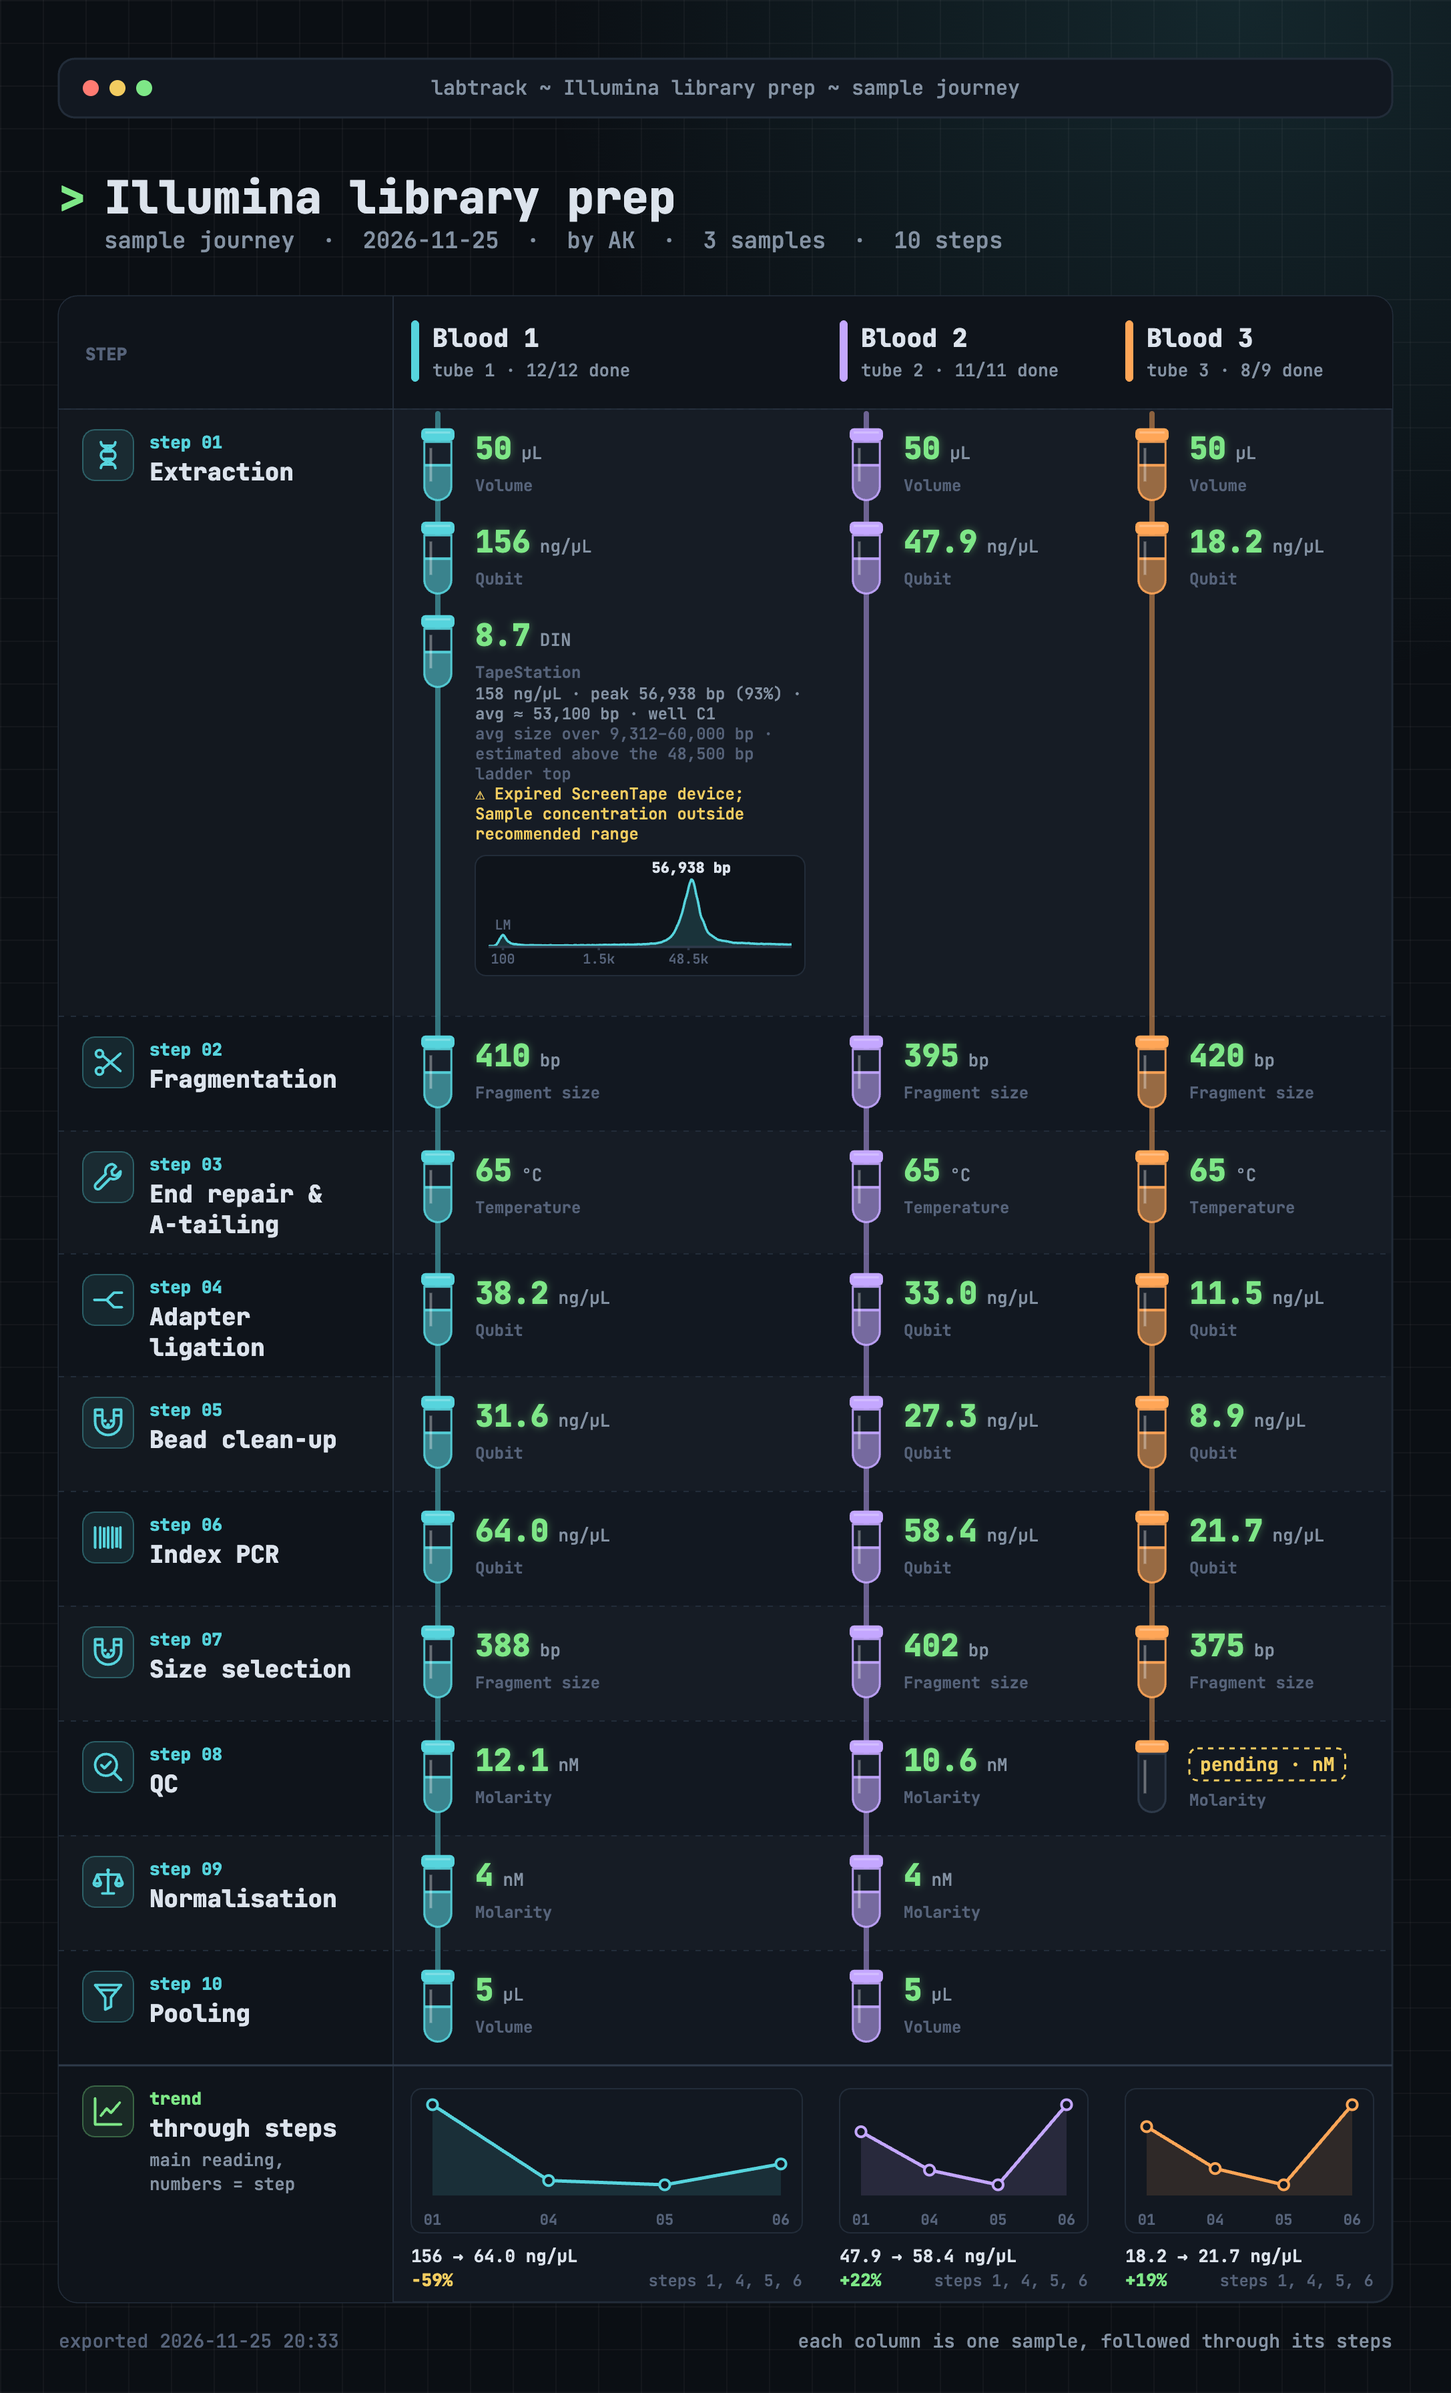
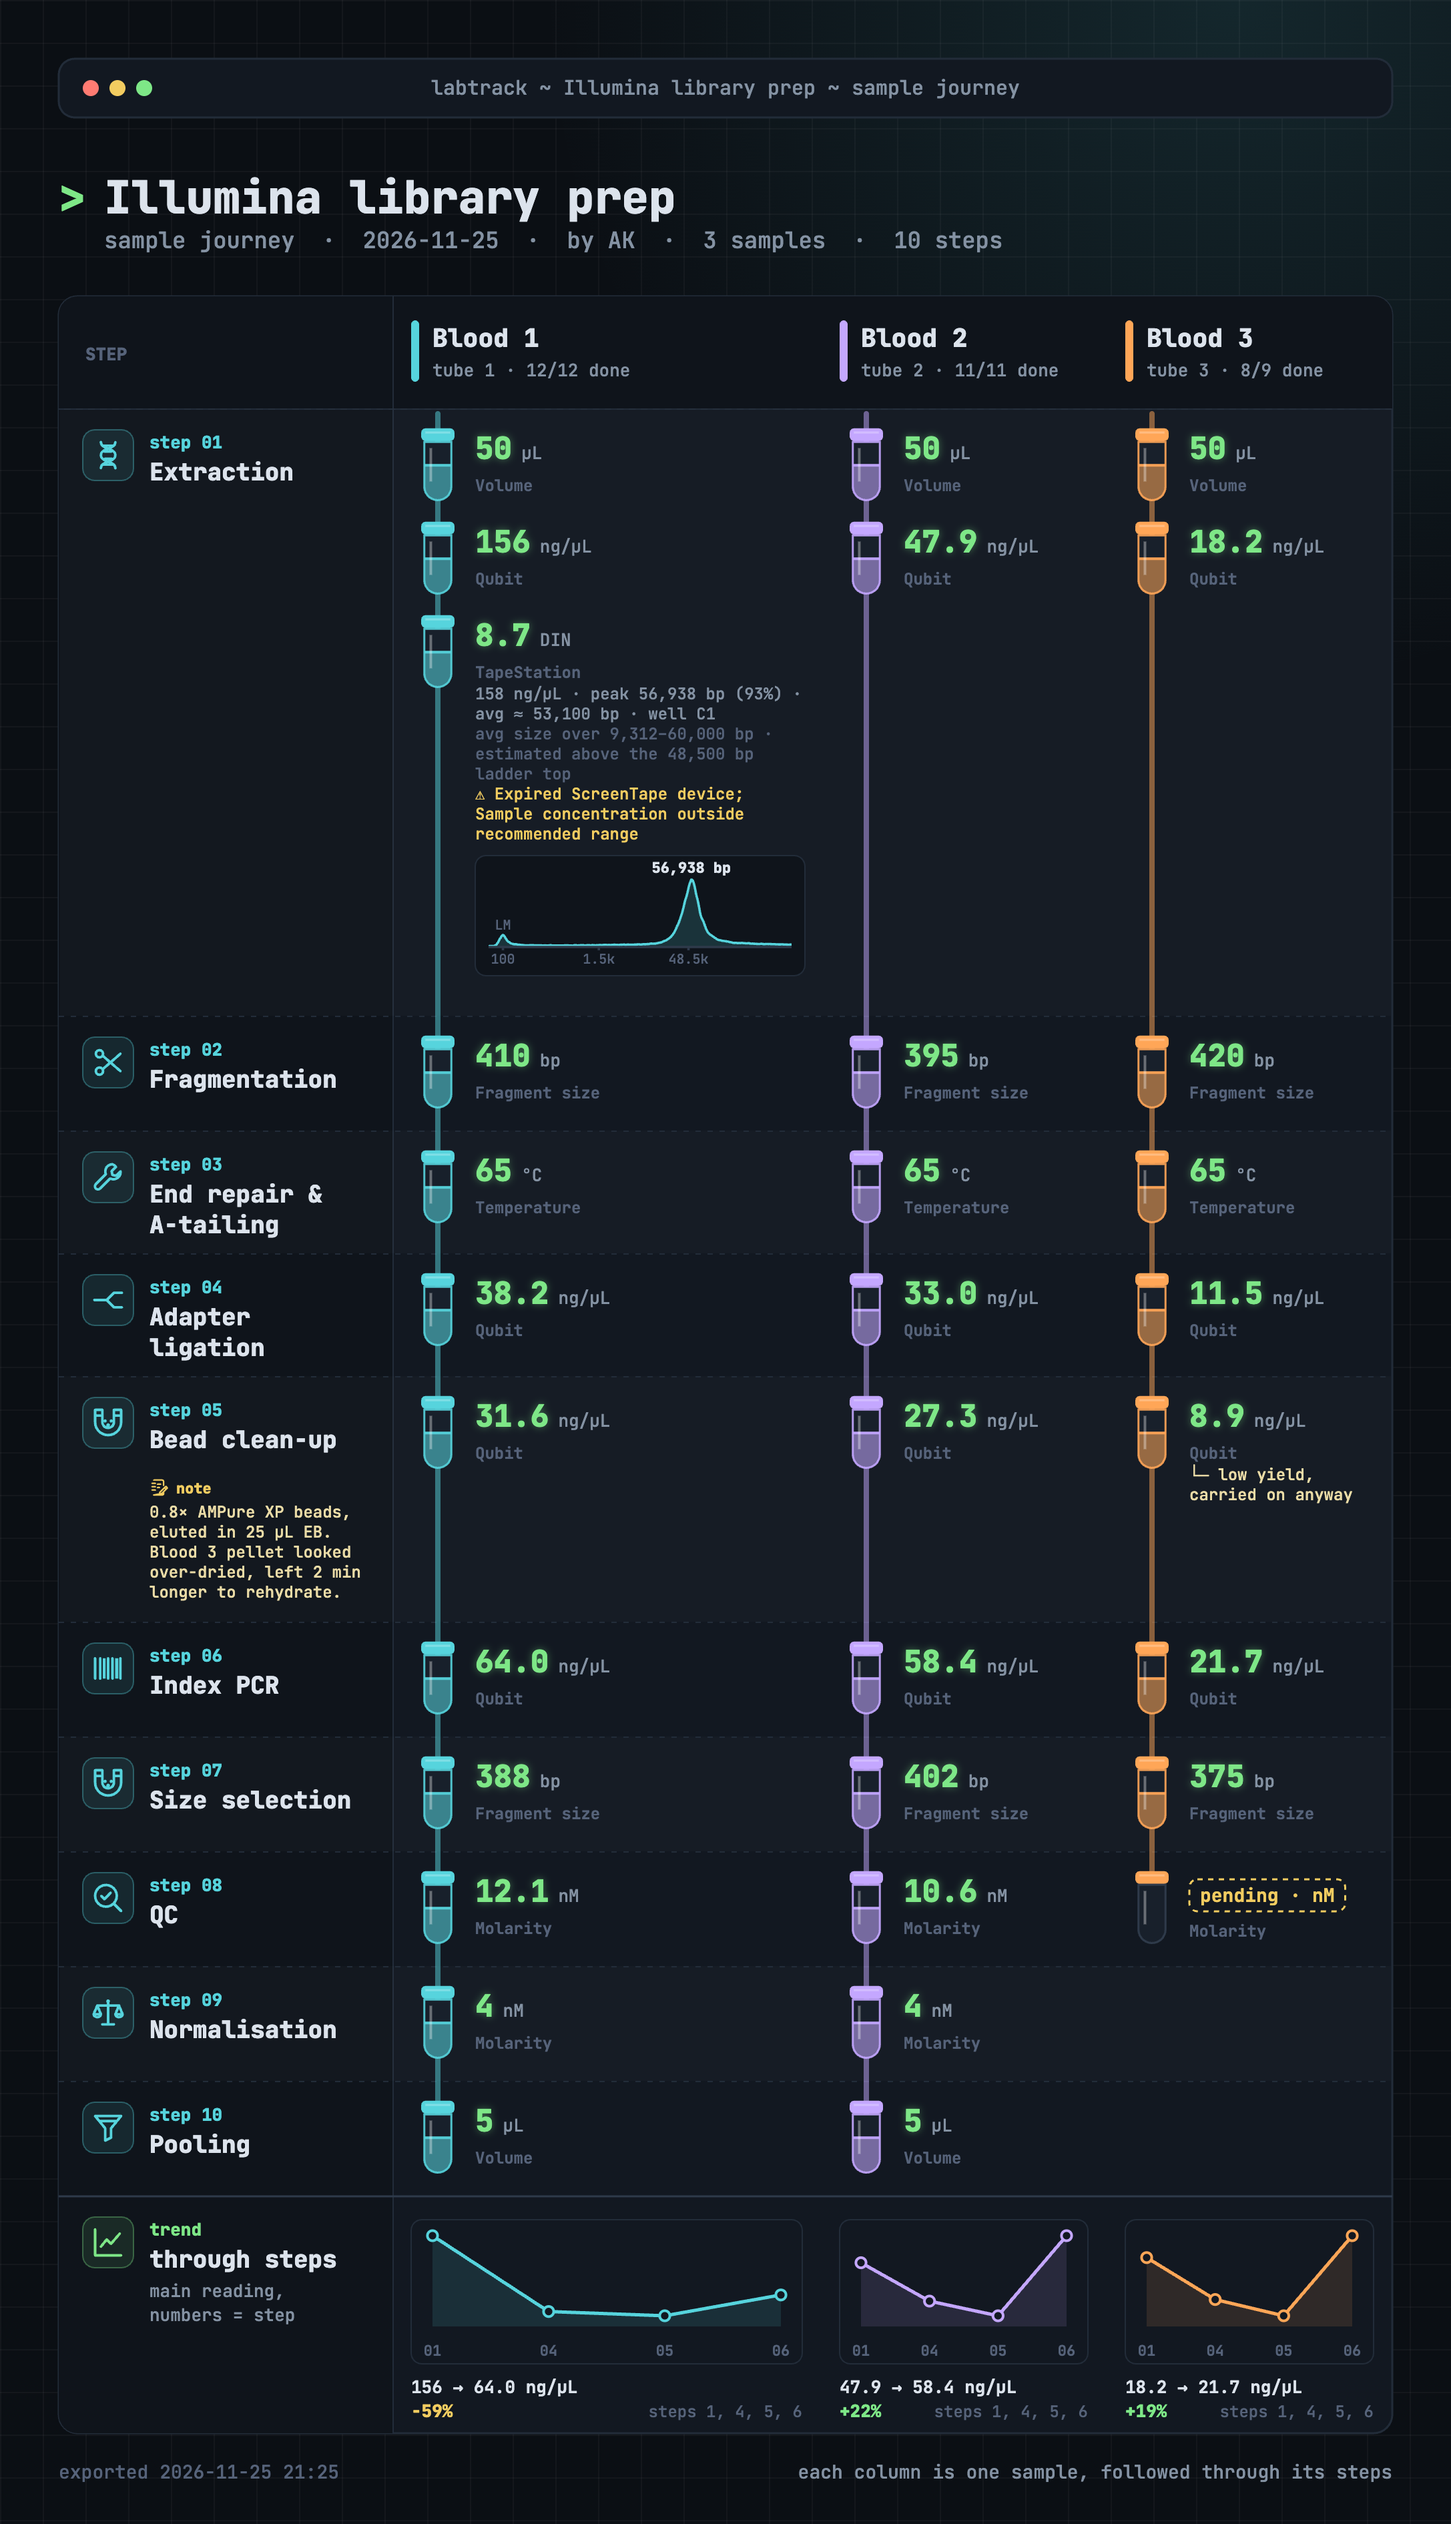
Show notes in the sample journey; refresh the showcase picture and help top bar

diff --git a/index.html b/index.html
@@ -415,6 +415,7 @@
     .inst-top .well { font-size: 11px; font-weight: 800; padding: 1px 6px; border-radius: 5px; color: var(--t-indigo); border: 1px solid color-mix(in srgb, var(--t-indigo) 40%, transparent); }
     .inst-top .inst-hl { margin-left: auto; font-weight: 800; color: var(--green); }
     .whole { display: inline-block; margin-left: 5px; padding: 0 5px; border-radius: 5px; font-size: 10px; font-weight: 800; line-height: 16px; color: var(--t-indigo); border: 1px solid color-mix(in srgb, var(--t-indigo) 40%, transparent); }
+    .jnote { grid-column: 2 / -1; font-size: 11.5px; color: var(--note-text); margin-top: -2px; }
     .jflash { animation: jflash 1.6s ease-out; }
     @keyframes jflash { 0%, 30% { background: color-mix(in srgb, var(--cyan) 18%, transparent); } 100% { background: transparent; } }
 
@@ -698,7 +699,7 @@
   </main>
 
   <footer class="no-print">
-    <span class="c-dim">//</span> saved on this device only · <a href="help.html">help</a> · <a href="https://github.com/AKMARTIAN/labtrack" target="_blank" rel="noopener">about labtrack</a> · <a id="appVersion" class="ver" href="https://github.com/AKMARTIAN/labtrack/releases/tag/v3.18.1" target="_blank" rel="noopener" title="What's new in this version">v3.18.1</a><!-- keep in step with CACHE in sw.js -->
+    <span class="c-dim">//</span> saved on this device only · <a href="help.html">help</a> · <a href="https://github.com/AKMARTIAN/labtrack" target="_blank" rel="noopener">about labtrack</a> · <a id="appVersion" class="ver" href="https://github.com/AKMARTIAN/labtrack/releases/tag/v3.19.0" target="_blank" rel="noopener" title="What's new in this version">v3.19.0</a><!-- keep in step with CACHE in sw.js -->
   </footer>
 
   <!-- Record types -->
@@ -3661,7 +3662,9 @@
           return out;
         }
         const instH = (it, tw) => (it.inst && it.inst.trace ? TRACE_H + 20 + (footLines(it.inst, tw).length - 1) * 15 : 0);
-        const singleH = (m, w) => (m.reads.length > 1 ? BLOCK + 22 : BLOCK) + instH(m.reads[0], w - 74);
+        const ownNote = (it) => (it.notes && !(it.inst && it.notes === it.inst.autoNote) ? it.notes : '');
+        const noteLines = (it, tw) => { const n = ownNote(it); if (!n) return []; meas.font = F(500, 12); return wrapLines(meas, `└─ ${n}`, tw).slice(0, 4); };
+        const singleH = (m, w) => (m.reads.length > 1 ? BLOCK + 22 : BLOCK) + (m.reads.length === 1 ? noteLines(m.reads[0], w - 74).length * 15 : 0) + instH(m.reads[0], w - 74);
         const groupH = (row, w) => (row.shared ? BLOCK + instH(row.item, w - 80) : GBLOCK + (row.multi ? row.reads.length * READ_LINE + 4 : 0));
         // A small electropherogram, drawn like the one in the app.
         function drawTrace(ctx, inst, x, y, w, h, col) {
@@ -3705,7 +3708,10 @@
             : c.rows.filter((row) => row.sid === sec.id).reduce((a, row) => a + groupH(row, c.w), 0)) + 16);
           meas.font = F(800, 18);
           const nameLines = wrapLines(meas, sec.name, LABEL - 80).slice(0, 3);
-          const labelH = 28 + nameLines.length * 23 + 18;
+          meas.font = F(500, 12);
+          const stepNotes = state.quickItems.filter((i) => i.kind === 'note' && secOf(i) === sec.id && String(i.text || '').trim());
+          const noteTxt = stepNotes.flatMap((nt) => wrapLines(meas, nt.text, LABEL - 80).slice(0, 6).map((l, k) => [l, k === 0]));
+          const labelH = noteTxt.length ? 54 + nameLines.length * 23 + 29 + (noteTxt.length - 1) * 15 + 18 : 28 + nameLines.length * 23 + 18;
           const rowH = Math.max(labelH, ...cellH, BLOCK + 16);
           const sk = sectionIcon(sec);
           back.push((ctx) => {
@@ -3723,6 +3729,13 @@
             ctx.fillText(`step ${String(r + 1).padStart(2, '0')}`, lx, rowTop + 30);
             ctx.font = F(800, 18); ctx.fillStyle = C.text;
             nameLines.forEach((ln, k) => ctx.fillText(ln, lx, rowTop + 54 + k * 23));
+            if (noteTxt.length) {
+              const ny0 = rowTop + 54 + nameLines.length * 23 + 2;
+              drawIcon(ctx, 'note', lx, ny0 - 3, 15, C.amber);
+              ctx.font = F(800, 11); ctx.fillStyle = C.amber; ctx.fillText('note', lx + 20, ny0 + 9);
+              ctx.font = F(500, 12); ctx.fillStyle = C['note-text'];
+              noteTxt.forEach(([l], k) => ctx.fillText(l, lx, ny0 + 27 + k * 15));
+            }
           });
           cols.forEach((c, k) => {
             const { x, w, col } = c;
@@ -3806,9 +3819,13 @@
           if (m.reads.length === 1) {
             const yy = resultLines(ctx, it, tx, by + 30, tw);
             if (tag) { ctx.font = F(600, 12); ctx.fillStyle = C.dim; ctx.fillText(fitText(ctx, tag, tw), tx, yy + 2); }
+            const nls = noteLines(it, tw);
+            ctx.font = F(500, 12); ctx.fillStyle = C['note-text'];
+            nls.forEach((l, k) => ctx.fillText(l, tx, yy + 18 + k * 15));
+            const off = nls.length * 15;
             if (it.inst && it.inst.trace) {
-              const nl = drawInstFooter(ctx, it.inst, tx, yy + 18, tw);
-              drawTrace(ctx, it.inst, tx, yy + 18 + (nl - 1) * 15 + 12, tw, TRACE_H - 14, col);
+              const nl = drawInstFooter(ctx, it.inst, tx, yy + 18 + off, tw);
+              drawTrace(ctx, it.inst, tx, yy + 18 + off + (nl - 1) * 15 + 12, tw, TRACE_H - 14, col);
             }
             return;
           }
@@ -4393,6 +4410,7 @@
                 ? `<div class="jres ${isNumeric(it.result) ? '' : 'txt'}">${escapeHtml(it.result)}${unit}</div>`
                 : `<div class="jres result pending">${fillBox(it, `Result for ${j.name} at ${sec.name}`, 'result?')}${unit}</div>`;
               if (it.inst) extra = instBlock(it.inst);
+              if (it.notes && !(it.inst && it.notes === it.inst.autoNote)) extra = `<div class="jnote">└─ ${escapeHtml(it.notes)}</div>` + extra;
             } else {
               // Re-reads of this tube: the mean, then every reading in order.
               const st = readStats(m.reads);

diff --git a/help.html b/help.html
@@ -326,7 +326,7 @@
       <details><summary>Something looks wrong or I have an idea.</summary><p>Open an issue on <a href="https://github.com/AKMARTIAN/labtrack/issues" target="_blank" rel="noopener">GitHub</a>.</p></details>
     </section>
 
-    <p class="foot"><a href="./">← back to labtrack</a> · LabTrack v3.18.1 · free and open source (MIT)</p>
+    <p class="foot"><a href="./">← back to labtrack</a> · LabTrack v3.19.0 · free and open source (MIT)</p>
   </main>
 </body>
 </html>

diff --git a/sw.js b/sw.js
@@ -1,6 +1,6 @@
 // LabTrack service worker — caches the app so it keeps working offline.
 // Bump CACHE when releasing a new version so users get the update.
-const CACHE = 'labtrack-v3.18.1';
+const CACHE = 'labtrack-v3.19.0';
 const CORE = ['./', './index.html', './help.html', './manifest.webmanifest', './assets/icon.svg', './assets/icon-192.png', './assets/apple-touch-icon.png', './assets/favicon-32.png'];
 
 self.addEventListener('install', (e) => {

diff --git a/Examples_and_screenshots/README.md b/Examples_and_screenshots/README.md
@@ -12,7 +12,7 @@ Example pictures exported from LabTrack and screenshots of the app at phone size
 | `04_picture_journey_12_samples.jpg` | A 12-sample journey. Larger runs make a wide picture that suits slides. |
 | `05_picture_journey_replicates_light.png`, `05_picture_journey_replicates_dark.png` | **Replicates.** Elephant blood ×3 and Rhino blood ×3 show mean ± SD at each step with every replicate's value, next to a negative control. |
 | `06_picture_journey_readings_light.png`, `06_picture_journey_readings_dark.png` | **Several readings per step.** After the bead clean-up each replicate's tube is read twice on the Qubit. The re-reads are averaged within each replicate (R1 29.8 · 30.2 → 30.0), then mean ± SD is taken across replicates. A TapeStation reading and a single sample's re-reads (*mean of 2 reads*) are also shown, plus a Bioanalyzer reading. |
-| `07_picture_journey_tapestation_light.png`, `07_picture_journey_tapestation_dark.png` | **TapeStation results in a journey.** Three samples go through Illumina library prep. Blood 1 has a TapeStation genomic DNA result at extraction, imported from the instrument's CSV export: DIN 8.7, 158 ng/µL, peak 56,938 bp, average fragment size ≈ 53,100 bp, the instrument's warnings and the redrawn electropherogram. Its column widens to fit. (The TapeStation values and trace are real, from a Lambda DNA run; the rest is demo data.) |
+| `07_picture_journey_tapestation_light.png`, `07_picture_journey_tapestation_dark.png` | **TapeStation results in a journey.** Three samples go through Illumina library prep. Blood 1 has a TapeStation genomic DNA result at extraction, imported from the instrument's CSV export: DIN 8.7, 158 ng/µL, peak 56,938 bp, average fragment size ≈ 53,100 bp, the instrument's warnings and the redrawn electropherogram. Its column widens to fit. Notes show where they were written: a step note at bead clean-up (left column) and a note on Blood 3's reading. (The TapeStation values and trace are real, from a Lambda DNA run; the rest is demo data.) |
 
 ## The app (phone size)
 

diff --git a/README.md b/README.md
@@ -33,9 +33,9 @@ LabTrack is a single-page web app for logging results at the bench. It runs in a
   </tr>
 </table>
 
-**Picture export:** share or present a run as an image, here as a sample journey with a TapeStation result (DIN, average fragment size and electropherogram) imported onto Blood 1.
+**Picture export:** share or present a run as an image, here as a sample journey with a TapeStation result (DIN, average fragment size and electropherogram) imported onto Blood 1, and notes written along the way.
 
-<img src="Examples_and_screenshots/07_picture_journey_tapestation_light.png" alt="Sample journey of three samples through Illumina library prep, with a TapeStation genomic DNA result and electropherogram on Blood 1 at extraction" />
+<img src="Examples_and_screenshots/07_picture_journey_tapestation_light.png" alt="Sample journey of three samples through Illumina library prep, with a TapeStation genomic DNA result and electropherogram on Blood 1 at extraction, a note at the bead clean-up step and a note on Blood 3" />
 
 More examples, in light and dark, are in [`Examples_and_screenshots`](Examples_and_screenshots/README.md).
 

diff --git a/CHANGELOG.md b/CHANGELOG.md
@@ -2,6 +2,18 @@
 
 All notable changes to LabTrack are documented here. This project uses [Semantic Versioning](https://semver.org/).
 
+## [3.19.0] - 2026-11-25
+
+### Added
+- **Notes in the sample journey:**
+  - **In the picture:** a step's notes appear once, under the step name in the left column. A note on a record appears under that sample's result (*└─ low yield, carried on anyway*).
+  - **In the app:** the journey view shows a record's note under its row.
+  - The automatic TapeStation summary isn't repeated as a note.
+
+### Changed
+- The help guide's top-bar screenshot shows the new logo.
+- Example 07 on the GitHub page now also shows notes written along the way.
+
 ## [3.18.1] - 2026-11-25
 
 ### Changed
